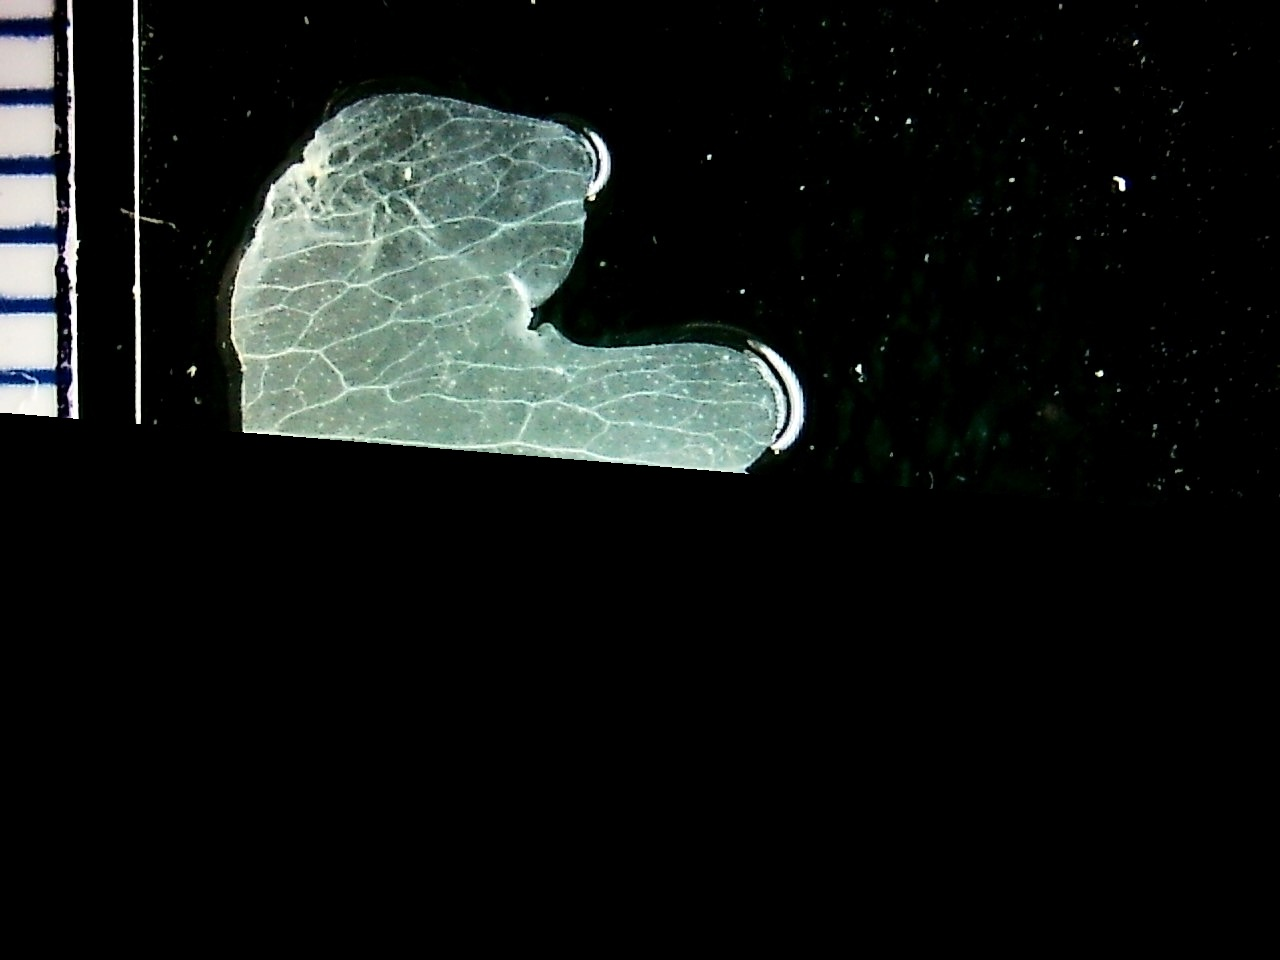
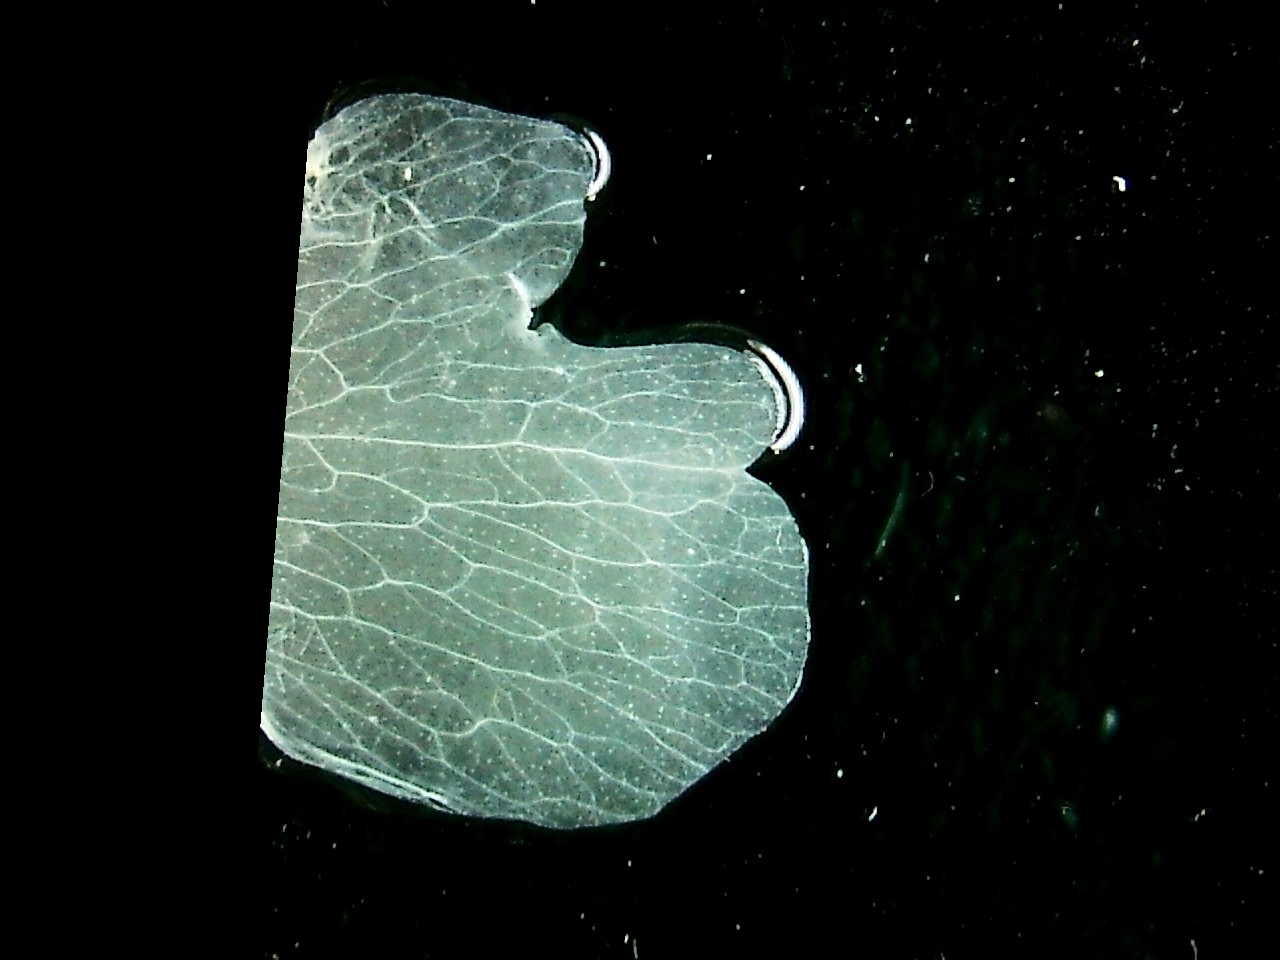
Fixed error regarding which side the petal was cut

diff --git a/src/petals_bottom.py b/src/petals_bottom.py
@@ -148,7 +148,7 @@ def straighten_edge(image, petal_mask, edge_points, edge_type, bounds, keypoints
     # Project all edge points onto the TOP-BOTTOM direction
     projections = np.array([np.dot(pt - top_pt, vec_normalized) for pt in edge_points])
     
-    # Get bottom 95% of edge points (larger percentage to move line further up onto petal)
+    # Get bottom 98% of edge points (larger percentage to move line further up onto petal)
     max_proj = np.max(projections)
     min_proj = np.min(projections)
     proj_range = max_proj - min_proj
@@ -173,17 +173,20 @@ def straighten_edge(image, petal_mask, edge_points, edge_type, bounds, keypoints
     result = image.copy()
     
     # Check which side top_pt is on
-    top_side = np.dot(perp_vec, top_pt - cut_line_point)
-    
+    top_side = np.dot(vec_normalized, top_pt - cut_line_point)
     # Create mask by checking each pixel
     for y in range(h):
         for x in range(w):
             point = np.array([x, y], dtype=np.float32)
-            side = np.dot(perp_vec, point - cut_line_point)
+            side = np.dot(vec_normalized, point - cut_line_point)
             
             # Keep pixels on the same side as top_pt
+            if np.sign(side) != np.sign(top_side):
+                result[y, x] = 0
+            '''
             if (top_side > 0 and side < 0) or (top_side < 0 and side > 0):
                 result[y, x] = 0  # Set to black
+            '''
     
     return result, edge_points, edge_type, perp_pt1, perp_pt2, vec_normalized
 
